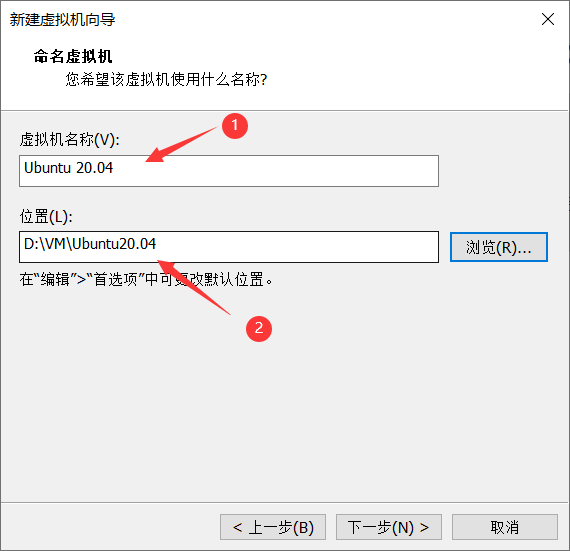
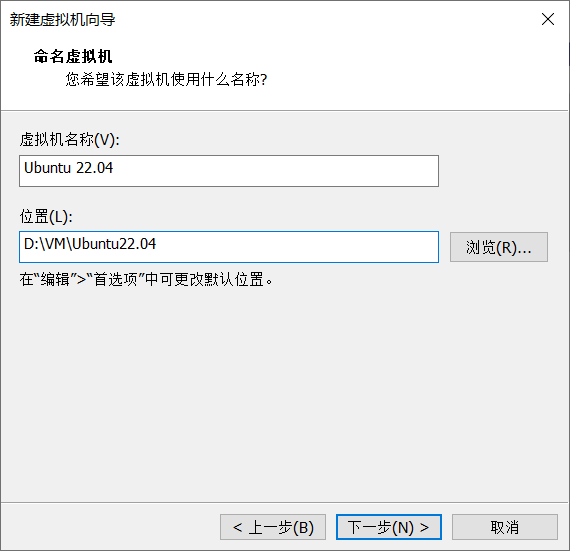
Site updated: 2022-09-02 21:19:44

diff --git a/categories/index.html b/categories/index.html
@@ -313,48 +313,6 @@
     
     <div class="category row nomargin-x">
       <a class="category-item collapsed
-          list-group-item category-item-action col-10 col-md-11 col-xm-11" title="虚拟机"
-        id="heading-7fea6eac23f8a25b82a768b6f3f4c724" role="tab" data-toggle="collapse" href="#collapse-7fea6eac23f8a25b82a768b6f3f4c724"
-        aria-expanded="false"
-      >
-        虚拟机
-        <span class="list-group-count"></span>
-        <i class="iconfont icon-arrowright"></i>
-      </a>
-      
-        <a href="/categories/%E8%99%9A%E6%8B%9F%E6%9C%BA/" class="category-count col-2 col-md-1 col-xm-1">
-          <i class="iconfont icon-articles"></i>
-          <span>1</span>
-        </a>
-      
-      <div class="category-collapse collapse " id="collapse-7fea6eac23f8a25b82a768b6f3f4c724"
-           role="tabpanel" aria-labelledby="heading-7fea6eac23f8a25b82a768b6f3f4c724">
-        
-        
-          
-  <div class="category-post-list">
-    
-    
-      
-      
-        <a href="/2022/09/02/VMware%E5%AE%89%E8%A3%85Ubuntu22-04/" title="VMware安装Ubuntu22.04"
-           class="list-group-item list-group-item-action
-           ">
-          <span class="category-post">VMware安装Ubuntu22.04</span>
-        </a>
-      
-    
-  </div>
-
-        
-      </div>
-    </div>
-  
-    
-    
-    
-    <div class="category row nomargin-x">
-      <a class="category-item collapsed
           list-group-item category-item-action col-10 col-md-11 col-xm-11" title="杂记"
         id="heading-3b3c163282e6c6a71c885c601e60f92a" role="tab" data-toggle="collapse" href="#collapse-3b3c163282e6c6a71c885c601e60f92a"
         aria-expanded="false"
@@ -383,6 +341,48 @@
            class="list-group-item list-group-item-action
            ">
           <span class="category-post">测试文章</span>
+        </a>
+      
+    
+  </div>
+
+        
+      </div>
+    </div>
+  
+    
+    
+    
+    <div class="category row nomargin-x">
+      <a class="category-item collapsed
+          list-group-item category-item-action col-10 col-md-11 col-xm-11" title="虚拟机"
+        id="heading-7fea6eac23f8a25b82a768b6f3f4c724" role="tab" data-toggle="collapse" href="#collapse-7fea6eac23f8a25b82a768b6f3f4c724"
+        aria-expanded="false"
+      >
+        虚拟机
+        <span class="list-group-count"></span>
+        <i class="iconfont icon-arrowright"></i>
+      </a>
+      
+        <a href="/categories/%E8%99%9A%E6%8B%9F%E6%9C%BA/" class="category-count col-2 col-md-1 col-xm-1">
+          <i class="iconfont icon-articles"></i>
+          <span>1</span>
+        </a>
+      
+      <div class="category-collapse collapse " id="collapse-7fea6eac23f8a25b82a768b6f3f4c724"
+           role="tabpanel" aria-labelledby="heading-7fea6eac23f8a25b82a768b6f3f4c724">
+        
+        
+          
+  <div class="category-post-list">
+    
+    
+      
+      
+        <a href="/2022/09/02/VMware%E5%AE%89%E8%A3%85Ubuntu22-04/" title="VMware安装Ubuntu22.04"
+           class="list-group-item list-group-item-action
+           ">
+          <span class="category-post">VMware安装Ubuntu22.04</span>
         </a>
       
     

diff --git a/2022/09/02/VMware安装Ubuntu22-04/index.html b/2022/09/02/VMware安装Ubuntu22-04/index.html
@@ -55,7 +55,7 @@
 <meta property="og:image" content="https://chenjiadragon.github.io/2022/09/02/VMware%E5%AE%89%E8%A3%85Ubuntu22-04/28.png">
 <meta property="og:image" content="https://chenjiadragon.github.io/2022/09/02/VMware%E5%AE%89%E8%A3%85Ubuntu22-04/29.png">
 <meta property="article:published_time" content="2022-09-02T02:52:09.000Z">
-<meta property="article:modified_time" content="2022-09-02T12:48:28.115Z">
+<meta property="article:modified_time" content="2022-09-02T13:18:14.386Z">
 <meta property="article:author" content="cjl">
 <meta property="article:tag" content="Ubuntu">
 <meta property="article:tag" content="VMware">
@@ -286,7 +286,7 @@
       <span class="post-meta mr-2">
         <i class="iconfont icon-chart"></i>
         
-          285 字
+          385 字
         
       </span>
     
@@ -297,7 +297,7 @@
         
         
         
-          3 分钟
+          4 分钟
         
       </span>
     
@@ -382,11 +382,12 @@
 <img src="/2022/09/02/VMware%E5%AE%89%E8%A3%85Ubuntu22-04/28.png" srcset="/img/loading.gif" lazyload class="">
 <img src="/2022/09/02/VMware%E5%AE%89%E8%A3%85Ubuntu22-04/29.png" srcset="/img/loading.gif" lazyload class="">
 
-<h2 id="3-相关问题"><a href="#3-相关问题" class="headerlink" title="3. 相关问题"></a>3. 相关问题</h2><ol>
-<li><a target="_blank" rel="noopener" href="https://blog.csdn.net/qq_34039018/article/details/88069283">VMware Workstation无法设置显示器“自动适应客户机”</a></li>
+<h2 id="3-相关问题"><a href="#3-相关问题" class="headerlink" title="3. 相关问题"></a>3. 相关问题</h2><p>安装完成后，发现无法自动放大缩小屏幕，并且也无法进行主机与虚拟机之间的复制粘贴操作，参照以下博客解决：</p>
+<ol>
+<li><a target="_blank" rel="noopener" href="https://blog.csdn.net/qq_43656475/article/details/126111925">https://blog.csdn.net/qq_43656475&#x2F;article&#x2F;details&#x2F;126111925</a></li>
 </ol>
 <h2 id="4-相关资源"><a href="#4-相关资源" class="headerlink" title="4. 相关资源"></a>4. 相关资源</h2><ol>
-<li><a target="_blank" rel="noopener" href="https://docs.vmware.com/cn/VMware-Workstation-Pro/16.0/com.vmware.ws.using.doc/GUID-0EE752F8-C159-487A-9159-FE1F646EE4CA.html">官方文档</a></li>
+<li><a target="_blank" rel="noopener" href="https://docs.vmware.com/cn/VMware-Workstation-Pro/16.0/com.vmware.ws.using.doc/GUID-0EE752F8-C159-487A-9159-FE1F646EE4CA.html">VMware16官方文档</a></li>
 </ol>
 
                 
